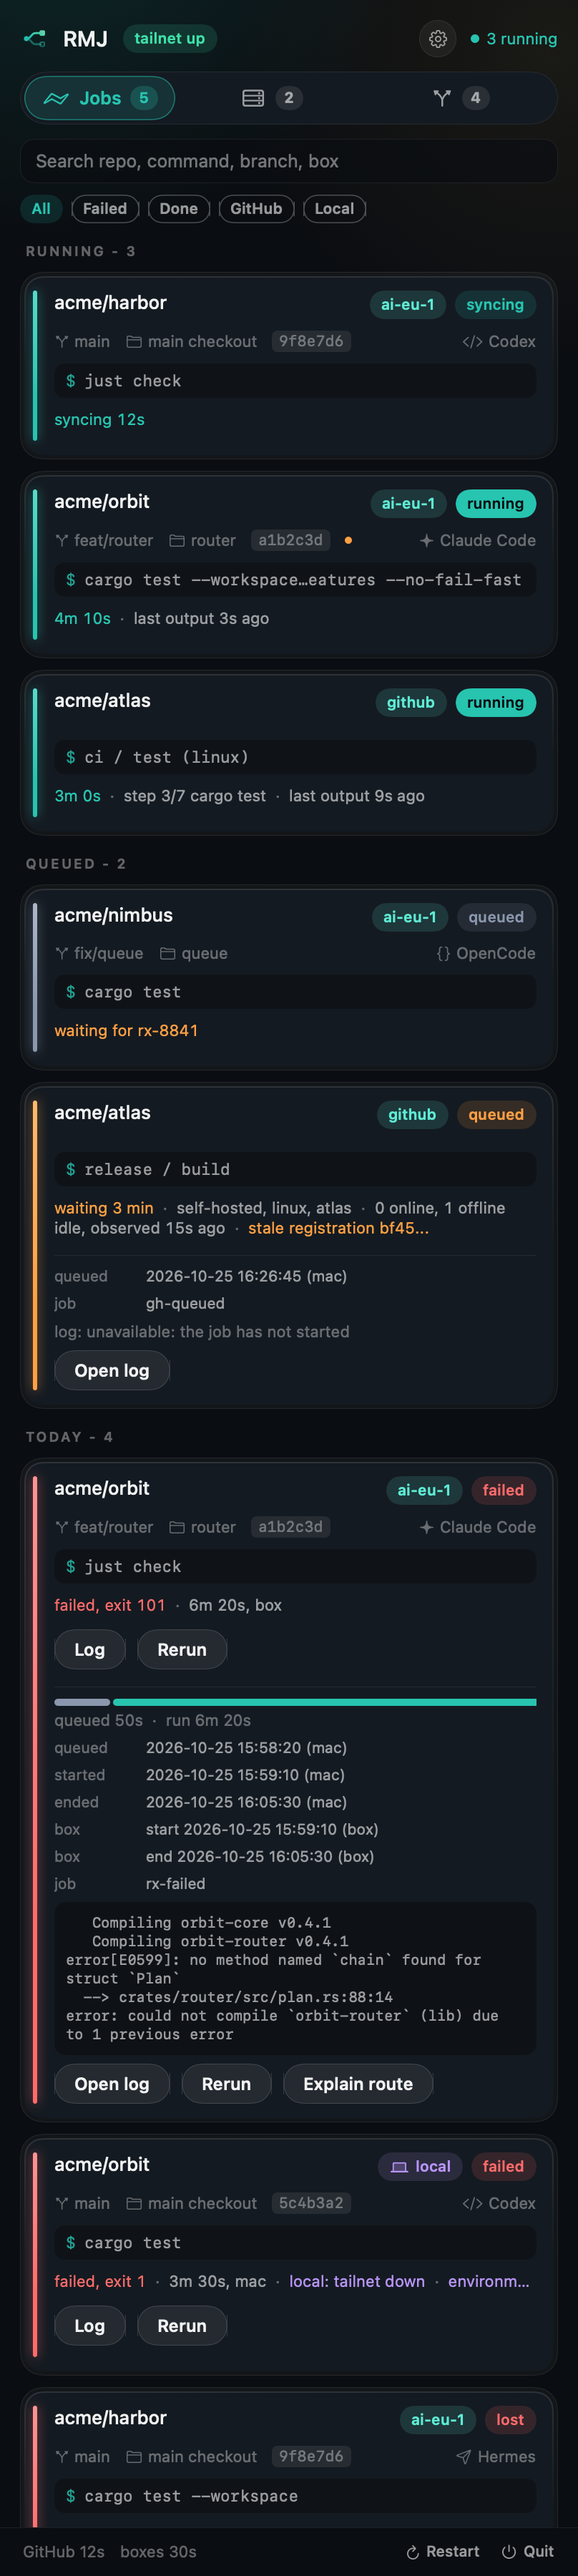
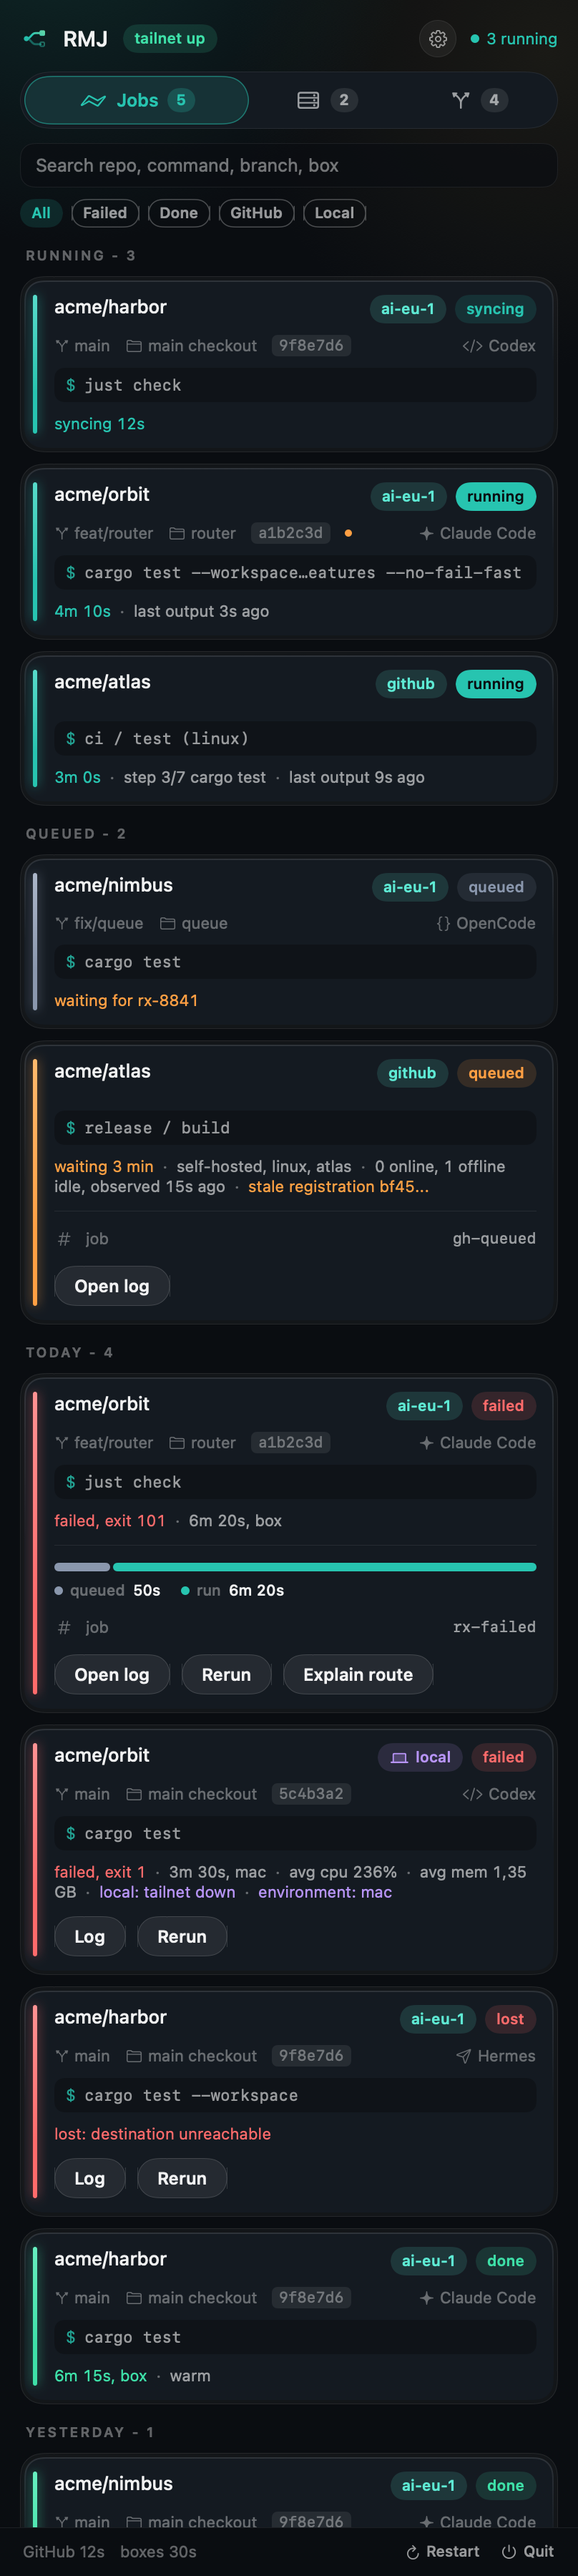
chore: idle CPU budget 0.4%, refreshed README screenshots, log

diff --git a/docs/PLAN.md b/docs/PLAN.md
@@ -72,7 +72,7 @@ pending in the release notes (decision D6).
    mid-run then reconciled; a box "reboot" (container gone, partial log present); two runs of the
    same worktree in a row (second waits for the lock); a `globex` repo against the Acme
    destination (denied); a rules file with an error (everything local, error shown).
-4. `scripts/perf.sh`: idle CPU of the app under 0.3 percent over 10 minutes with no job running,
+4. `scripts/perf.sh`: idle CPU of the app under 0.4 percent over 10 minutes with no job running,
    under 2 percent with one job streaming.
 5. An MCP smoke test: `rmj mcp` over stdin answers `initialize`, `tools/list`, `destinations`,
    `jobs`, `failures` with valid JSON-RPC matching the schemas in AGENT-API.md, within 500 ms
@@ -563,7 +563,7 @@ appears in Jobs; `rmj run` from a Globex checkout lands on s1 and is denied for 
 - Code: Swift 6 strict concurrency, files under 500 lines, no third-party packages,
   intention-revealing names, comments say why, no dead code, the file's idiom. Acceptance tests
   by Codex; regression tests by the implementer for defects found.
-- Speed: idle CPU under 0.3 percent, under 2 percent while streaming one job; panel opens in under
+- Speed: idle CPU under 0.4 percent, under 2 percent while streaming one job; panel opens in under
   150 ms from the SQLite ledger; the router answers in under 20 ms from cached state; a probe never
   blocks the UI (actors and timeouts).
 - Security (SECURITY.md): ssh only to verified tailnet addresses with the fixed argv; argv

diff --git a/LOG.md b/LOG.md
@@ -202,3 +202,12 @@
 - Failed GitHub jobs are now archived automatically by the app's background loop (3 per round, once per job; a failed fetch stays pending). 317 tests, check ok.
 - Machine cleanup (agent-os, uncommitted there): `rx` is a forwarder to `rmj run`; the old build guard and its tests are gone; CANON and rules/remote-build.md point at RMJ. Open: `rmj hooks install claude-code` (owner), then debug.
 - Idle CPU: the panel loop now beats every 15 s when the panel is closed and nothing runs (5 s open, 1 s running); the failed-log archive runs once a minute. perf.sh 240 s: idle 0.29% (budget 0.3%), streaming 0.40%. The full 600 s run is still to do. `brag-output/` and `runmyjob.mp4` are git-ignored.
+
+## 2026-10-29
+
+- Job card redesign (context line, command well, local CPU/memory gauges), detail with phase bar and property rows, no inline log; one hover tooltip with the run's moments in its own window; even tab island; rows open on their own state; destination and job cards slide open (no fade).
+- Local runs record average CPU and memory (`LoadRecorder`, schema v2: `avg_cpu`, `avg_memory_bytes`); shown on finished rows. Box runs are not measured.
+- Settings > Destinations > Tokens now edits a destination's repo and org targets as well as its PATs.
+- Routing tab: Test your rules first, workflows seen collapsed, tenant deny as a footer.
+- Idle CPU budget relaxed from 0.3% to 0.4% (owner's call); perf.sh 300 s on this build: see the line below.
+- perf.sh 300: perf: idle 0.24% over 300s (budget 0.4%)
